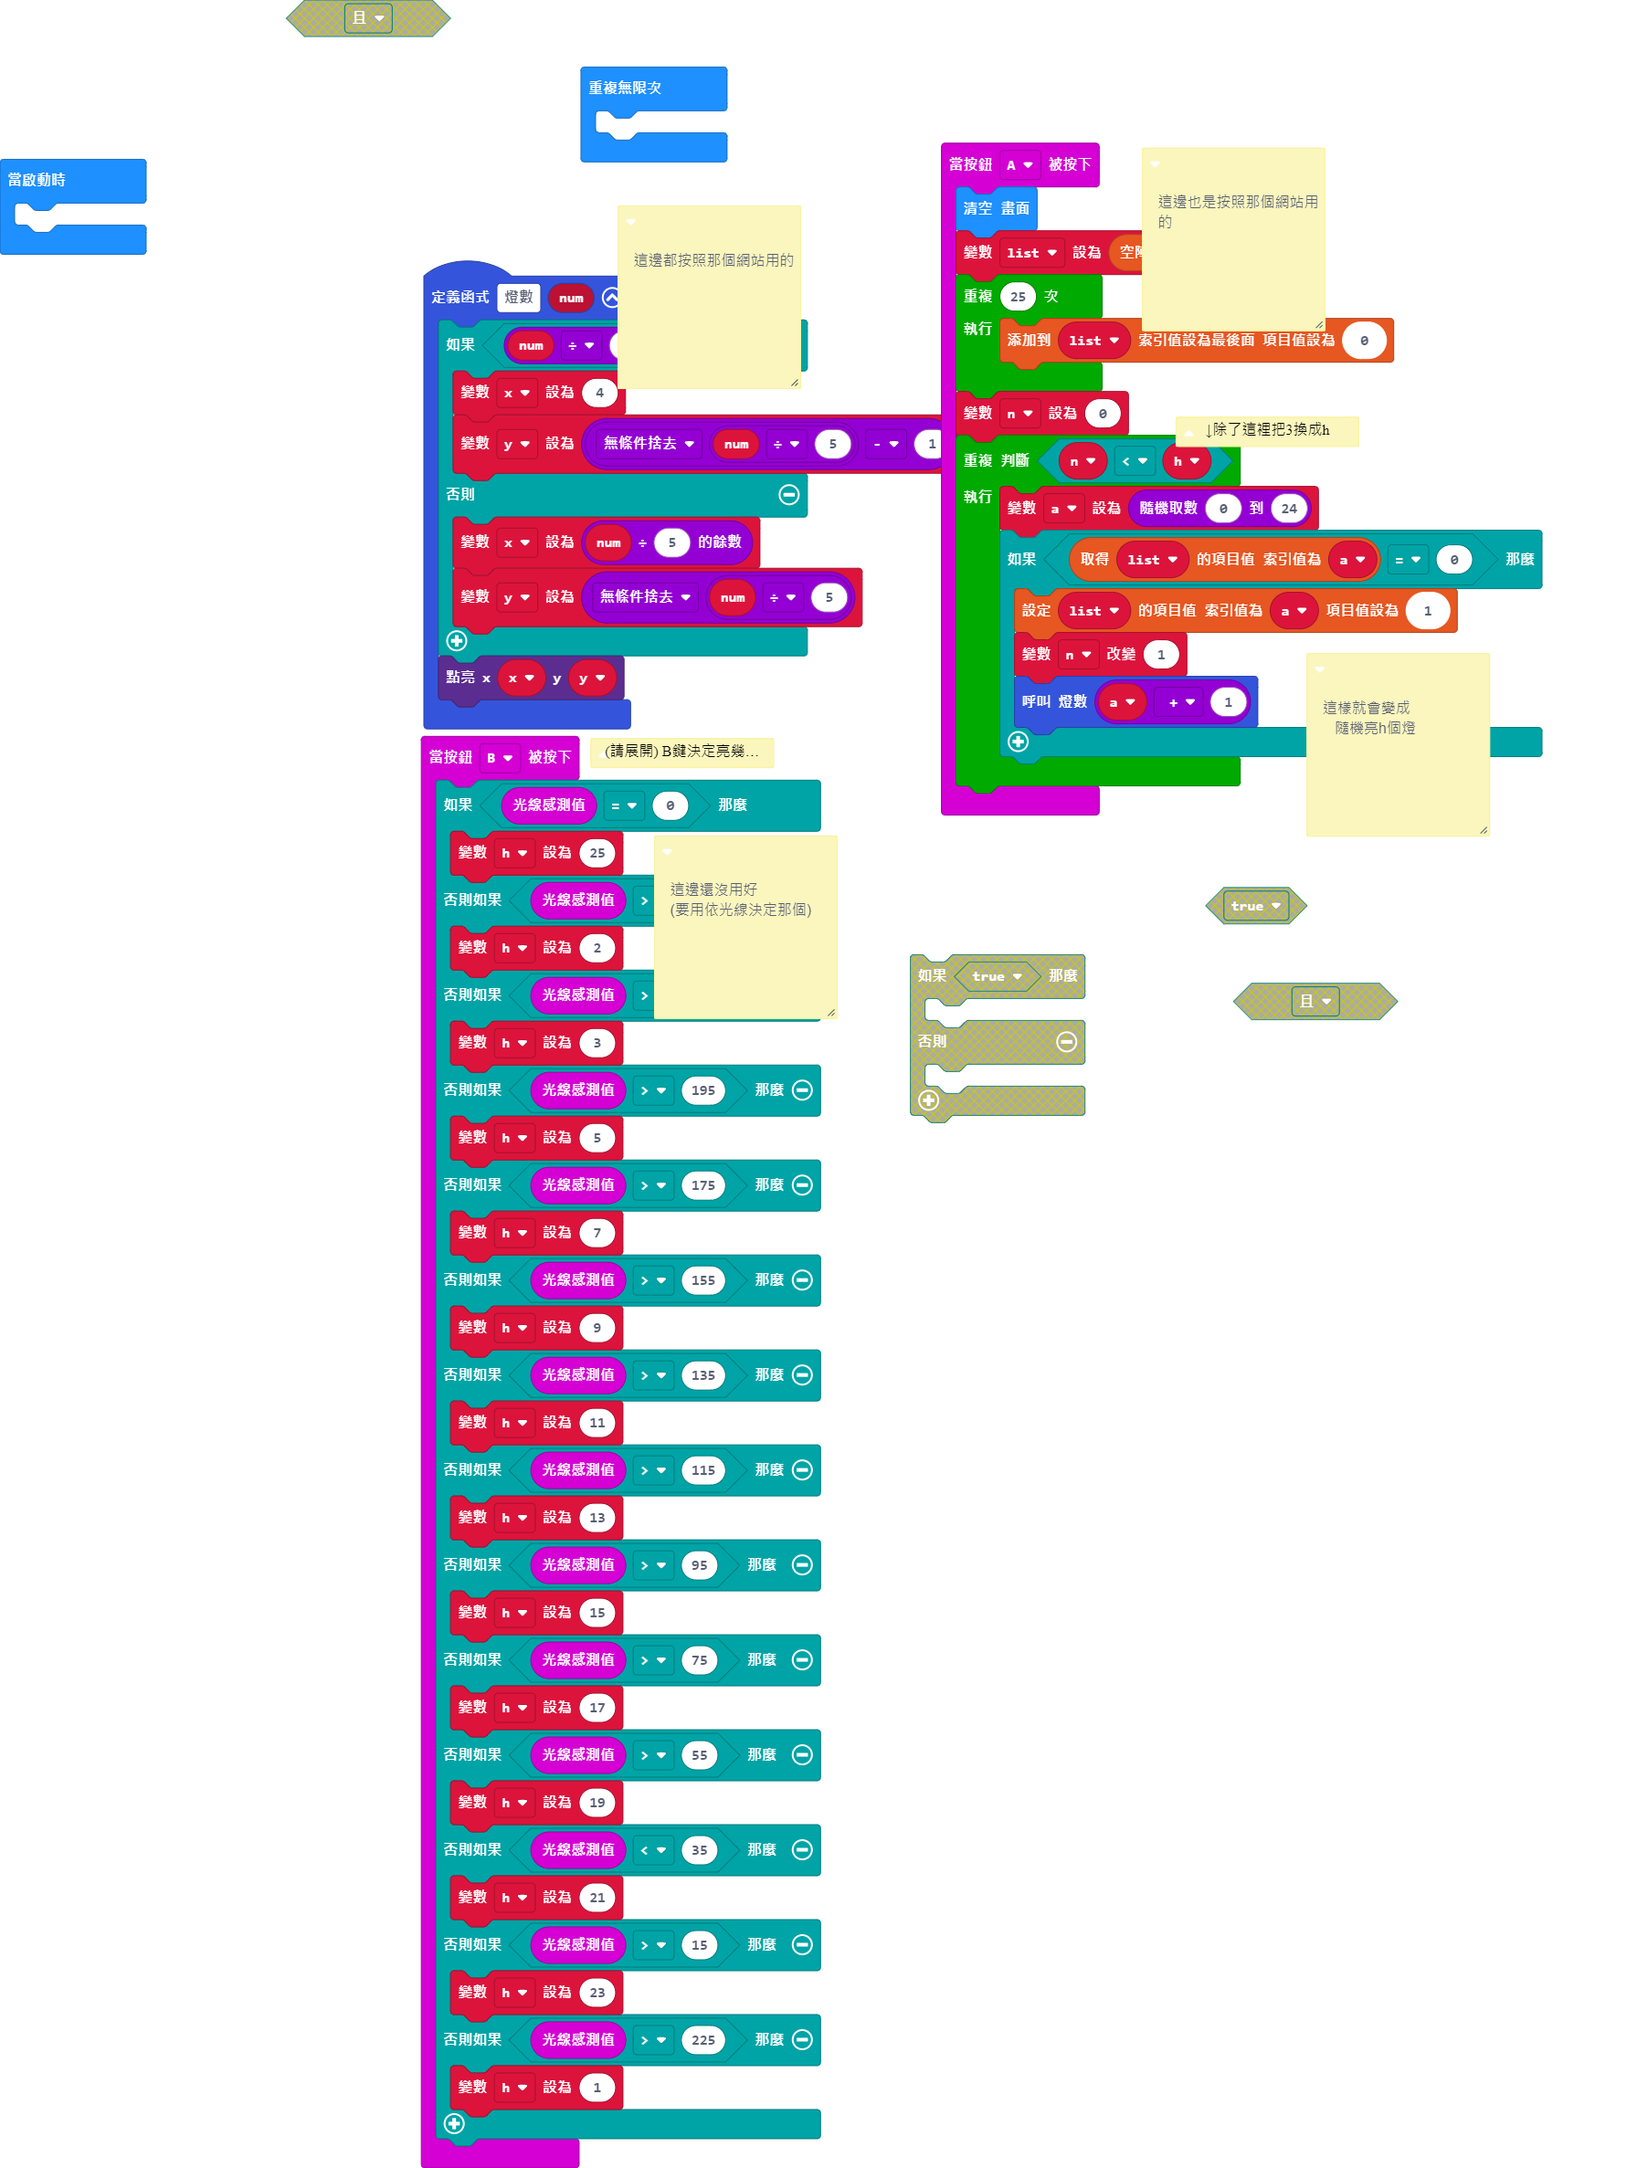
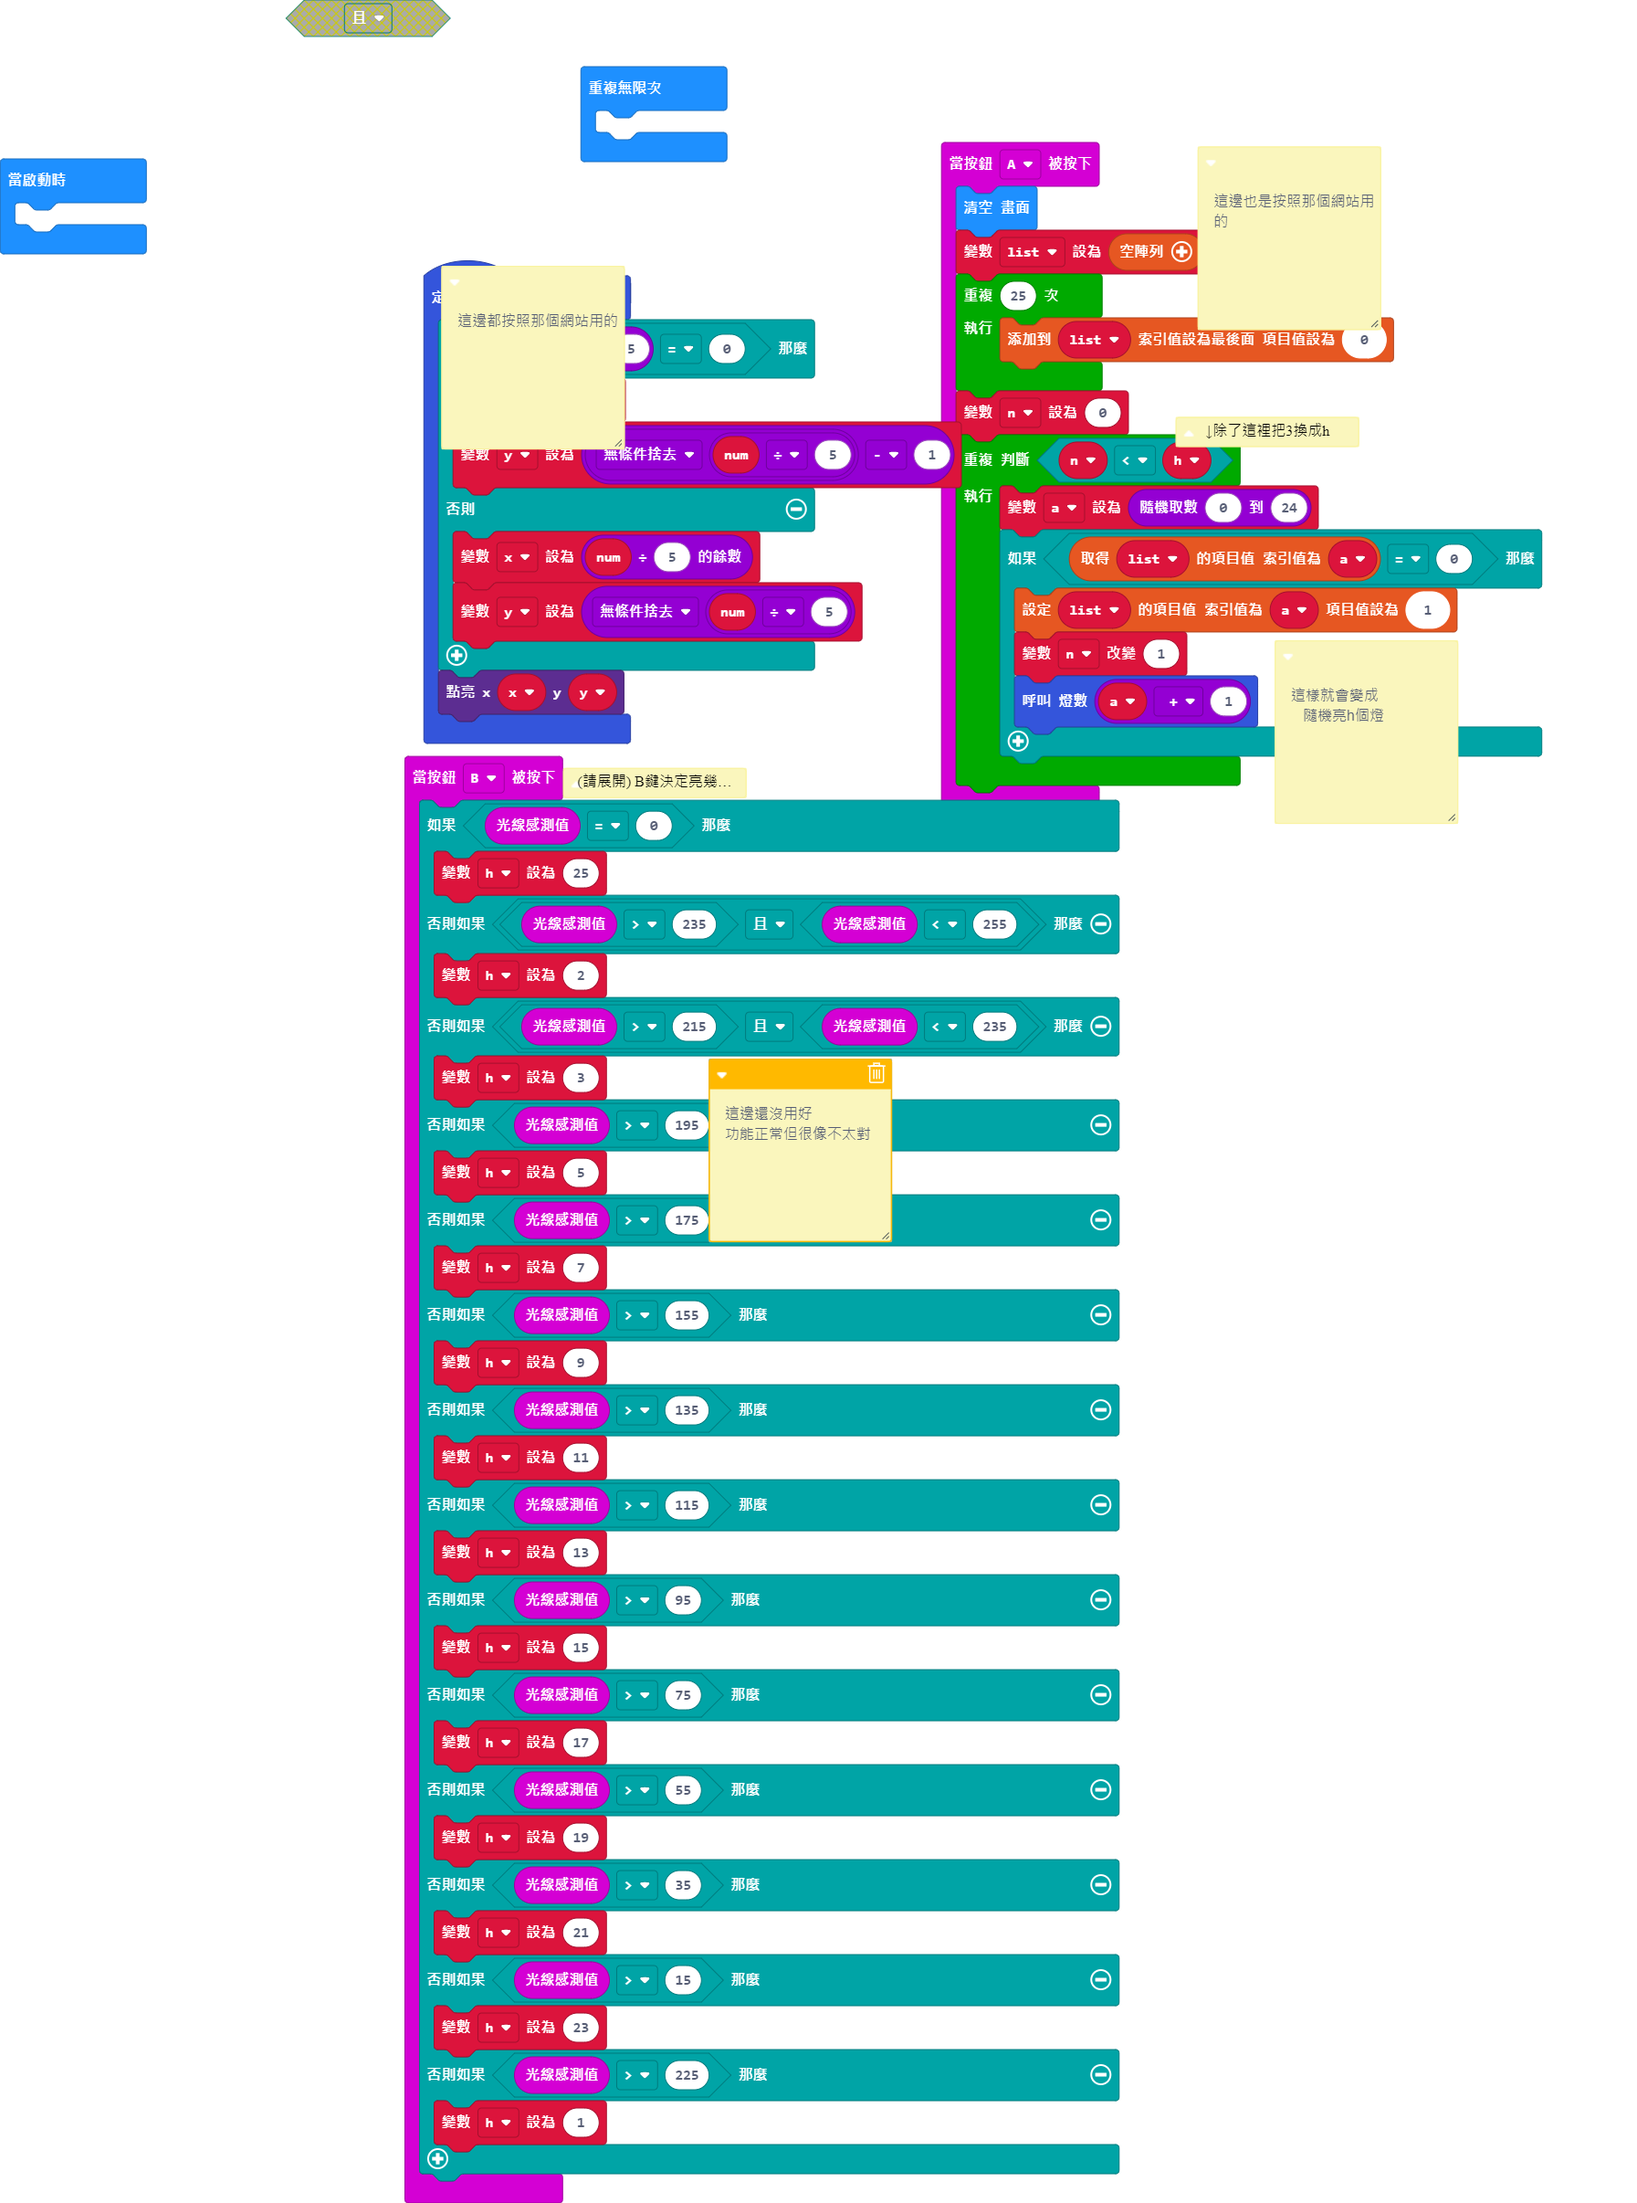
更新 main.blocks, main.ts

diff --git a/main.ts b/main.ts
@@ -54,14 +54,14 @@ input.onButtonPressed(Button.A, function () {
 /**
  * 這邊還沒用好
  * 
- * (要用依光線決定那個)
+ * 功能正常但很像不太對
  */
 input.onButtonPressed(Button.B, function () {
     if (input.lightLevel() == 0) {
         h = 25
-    } else if (input.lightLevel() > 235) {
+    } else if (input.lightLevel() > 235 && input.lightLevel() < 255) {
         h = 2
-    } else if (input.lightLevel() > 215) {
+    } else if (input.lightLevel() > 215 && input.lightLevel() < 235) {
         h = 3
     } else if (input.lightLevel() > 195) {
         h = 5
@@ -79,7 +79,7 @@ input.onButtonPressed(Button.B, function () {
         h = 17
     } else if (input.lightLevel() > 55) {
         h = 19
-    } else if (input.lightLevel() < 35) {
+    } else if (input.lightLevel() > 35) {
         h = 21
     } else if (input.lightLevel() > 15) {
         h = 23
